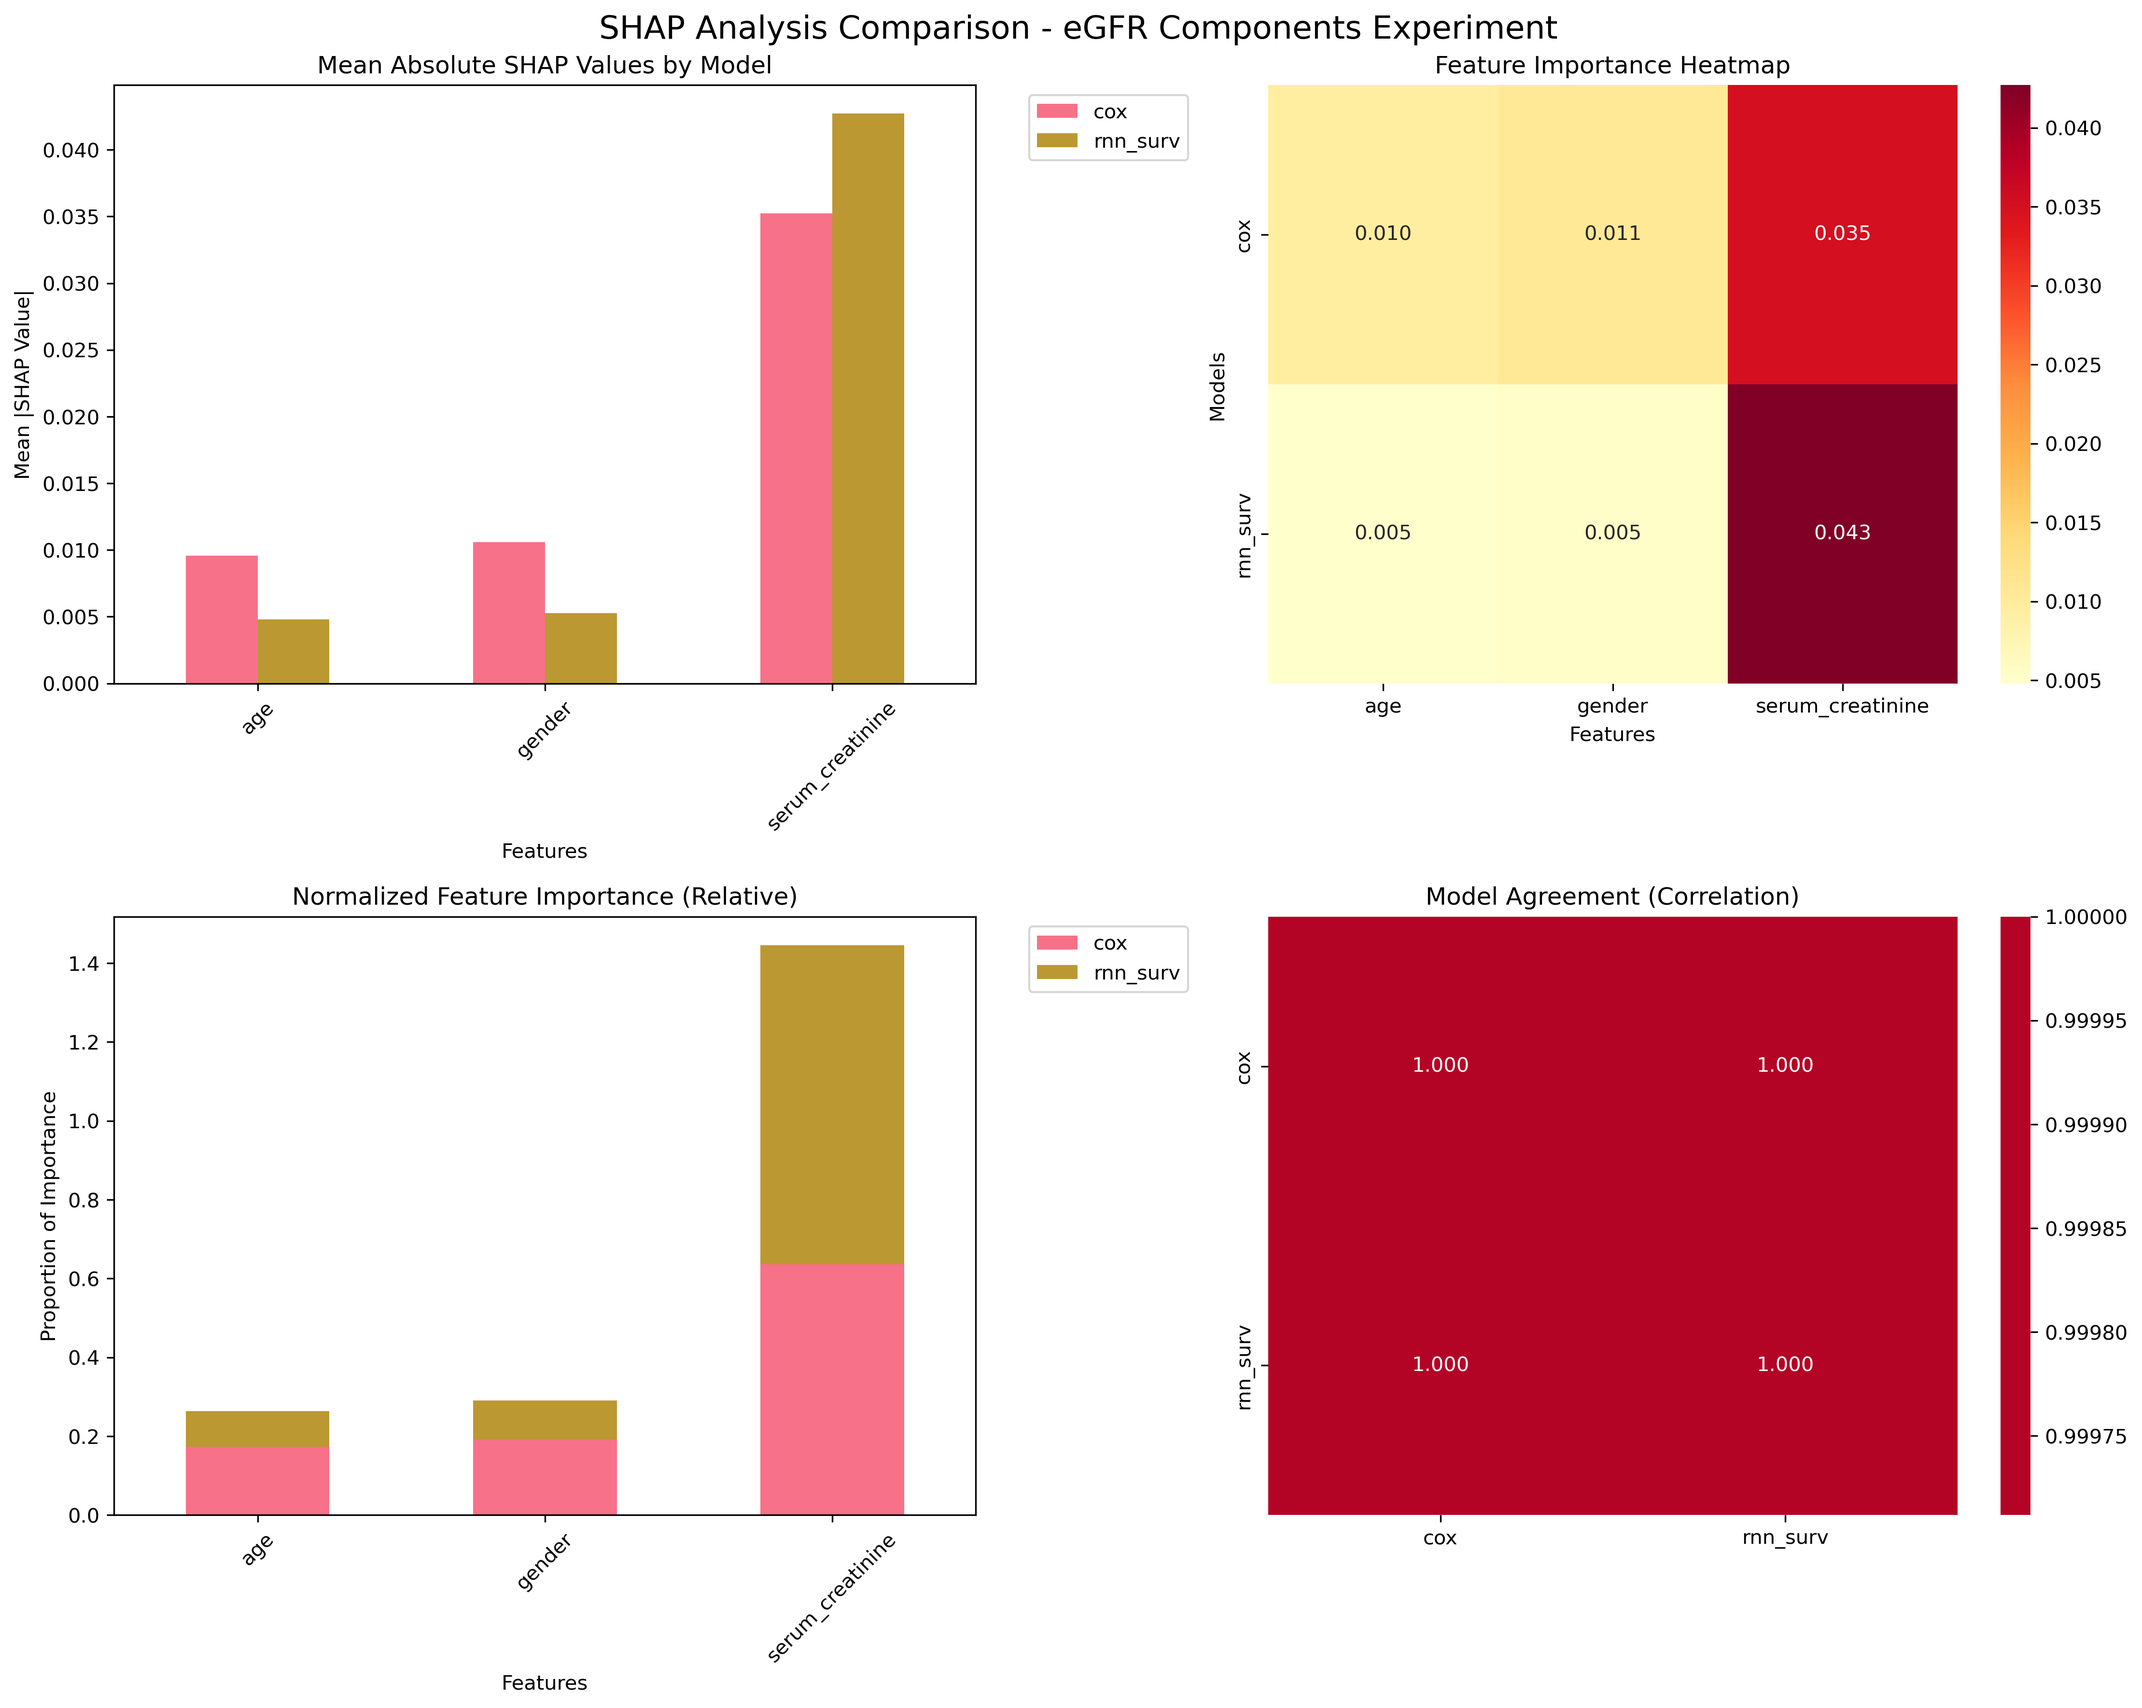
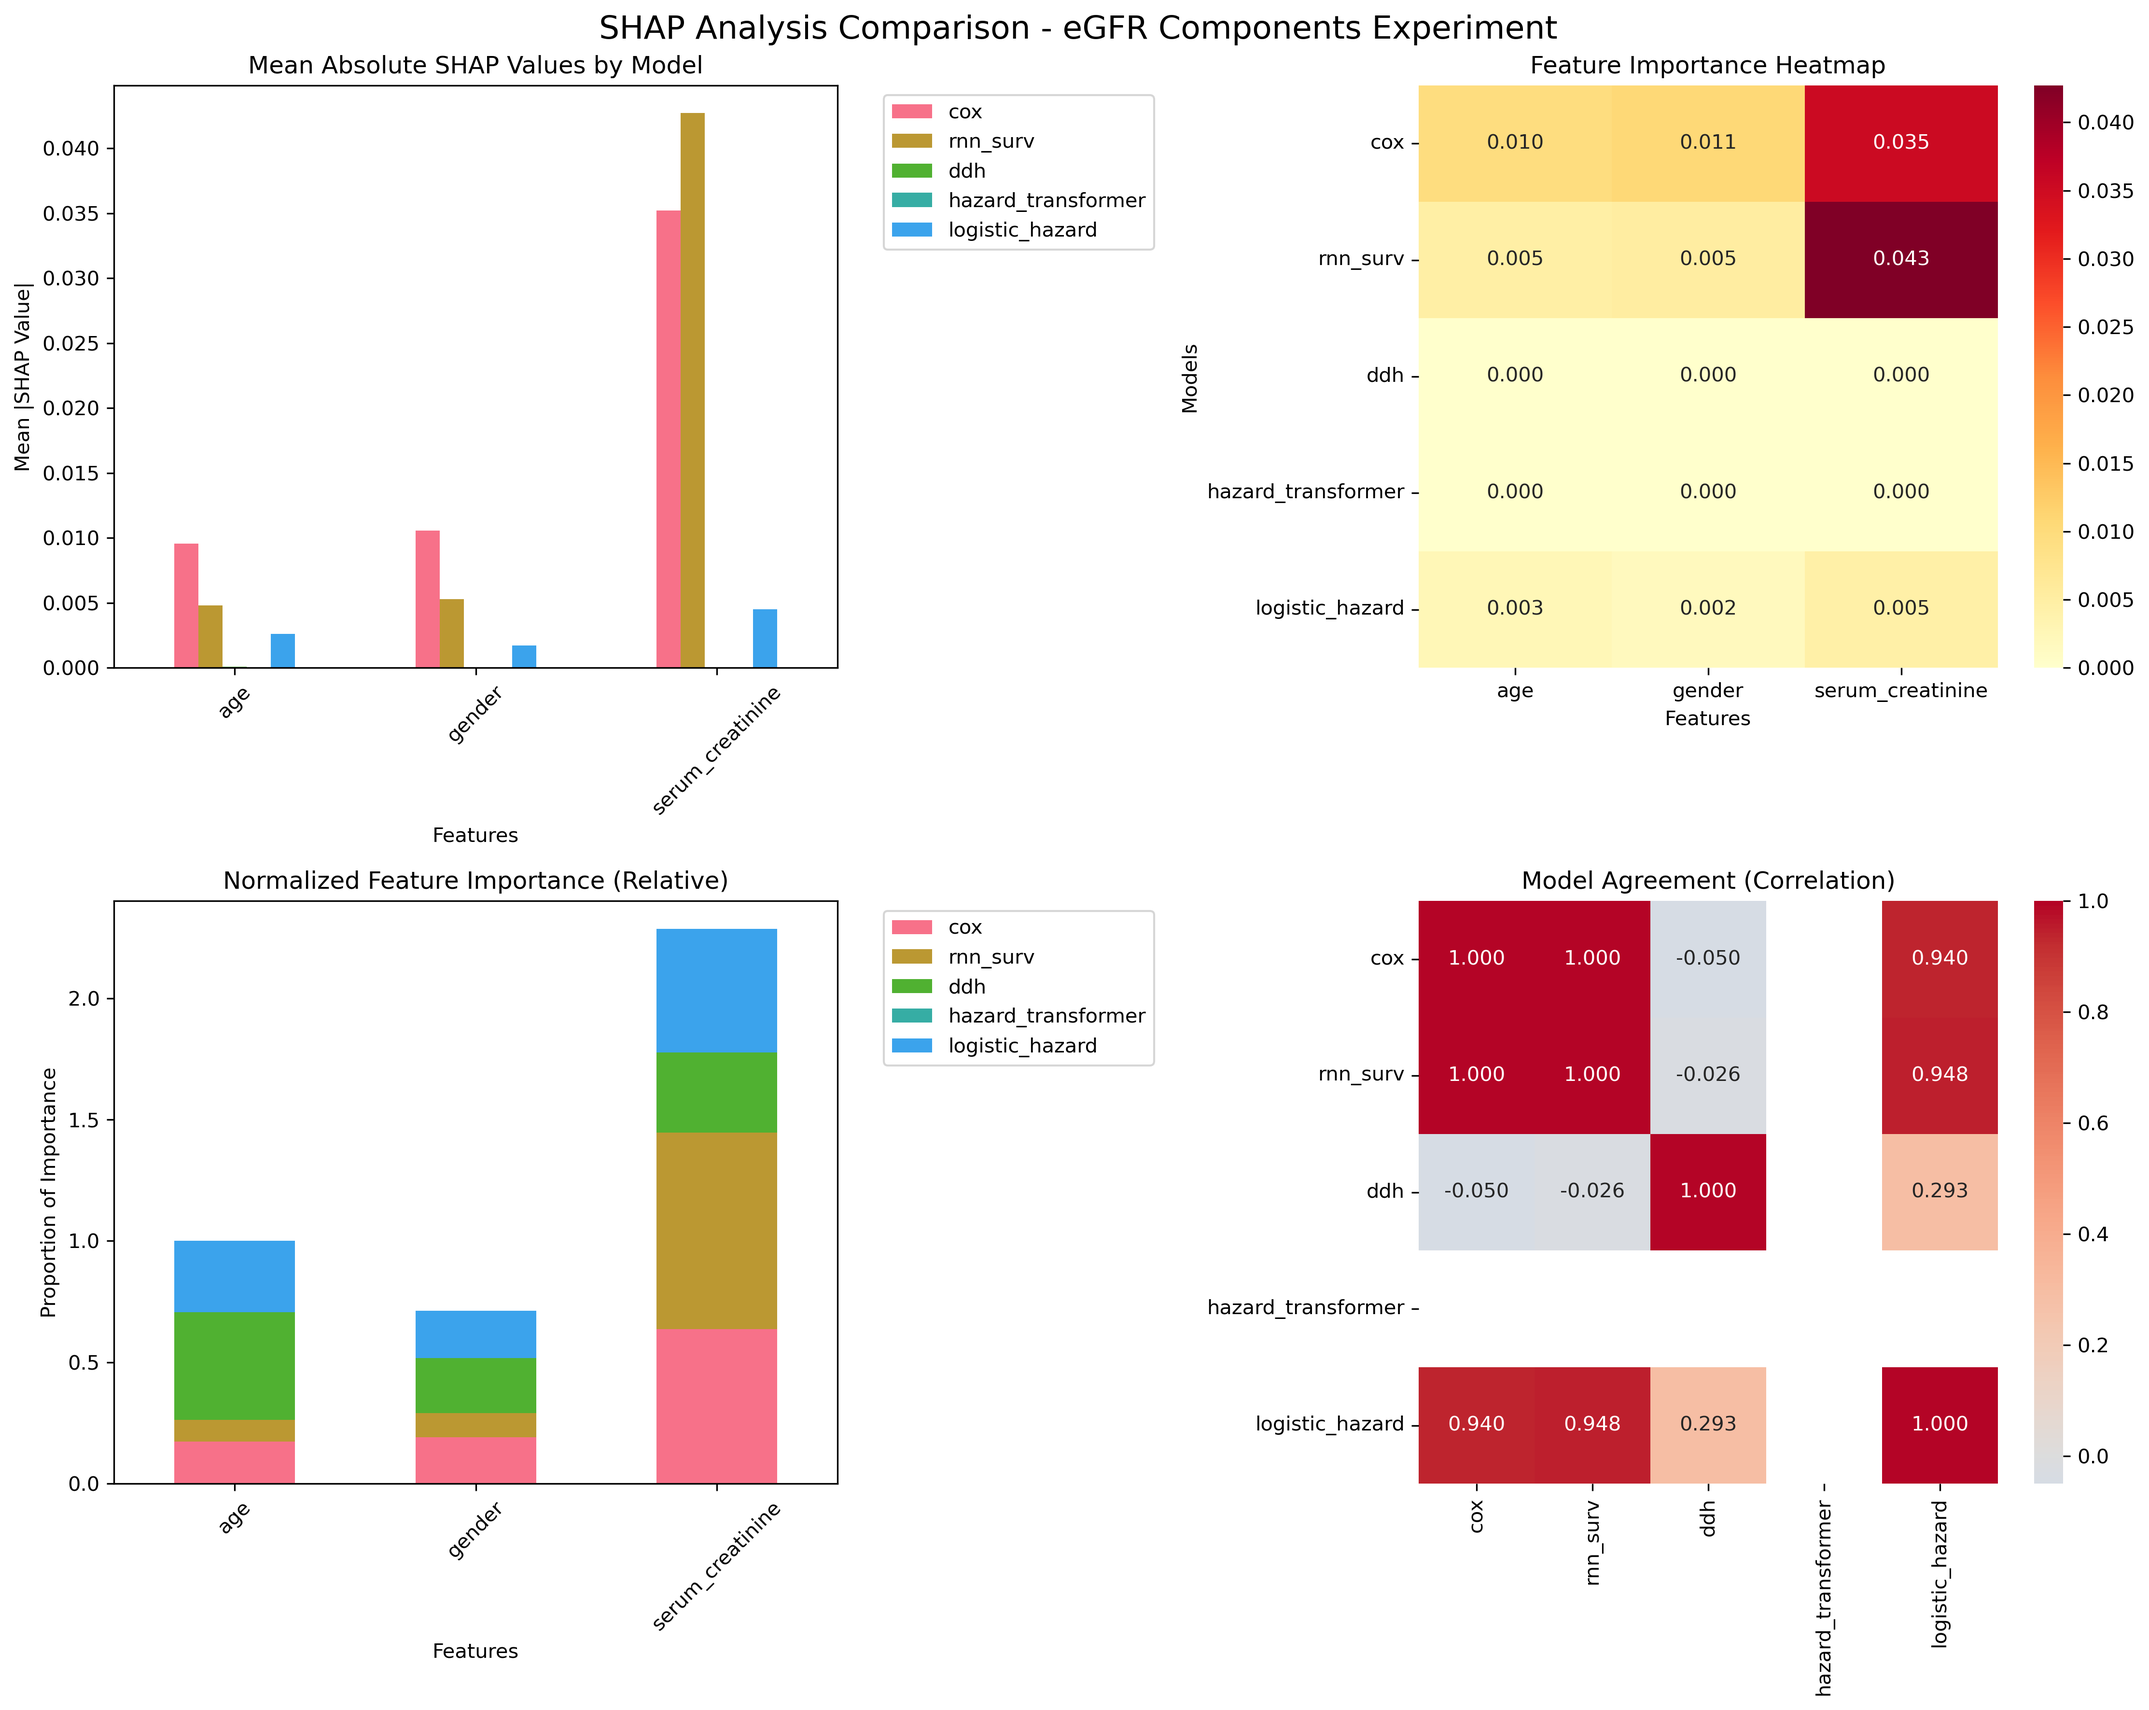
na

diff --git a/pkgs/scripts/egfr_components_shap_analysis.py b/pkgs/scripts/egfr_components_shap_analysis.py
@@ -154,25 +154,74 @@ class EGFRComponentsSHAPAnalysis:
             if model_name in self.models:
                 device = torch.device('cuda' if torch.cuda.is_available() else 'cpu')
                 model = self.models[model_name]
-                X_tensor = torch.tensor(X, dtype=torch.float32).to(device)
                 
                 with torch.no_grad():
                     try:
                         if model_name == 'rnn_surv':
+                            X_tensor = torch.tensor(X, dtype=torch.float32).to(device)
                             X_tensor = X_tensor.unsqueeze(1)  # Add sequence dimension
                             _, risk_scores = model(X_tensor)
                             return 1 - risk_scores.squeeze().cpu().numpy()
+                            
                         elif model_name == 'ddh':
-                            # DDH model requires mask parameter - skip for now
-                            print(f"Skipping {model_name} - requires additional parameters")
-                            return None
+                            # DDH model requires features and mask
+                            batch_size = len(X)
+                            max_seq_length = 1  # For SHAP, we use single time point
+                            
+                            # Normalize features like in the original experiment
+                            features = np.zeros((batch_size, max_seq_length, len(self.features)))
+                            features[:, 0, 0] = (X[:, 0] - self.train_data['age'].mean()) / self.train_data['age'].std()
+                            features[:, 0, 1] = X[:, 1]  # gender, no normalization
+                            features[:, 0, 2] = (X[:, 2] - self.train_data['serum_creatinine'].mean()) / self.train_data['serum_creatinine'].std()
+                            
+                            mask = np.ones((batch_size, max_seq_length))  # All positions are valid
+                            
+                            features_tensor = torch.tensor(features, dtype=torch.float32).to(device)
+                            mask_tensor = torch.tensor(mask, dtype=torch.float32).to(device)
+                            
+                            hazard_preds, _ = model(features_tensor, mask_tensor)
+                            # Take the last time step prediction
+                            risk_scores = hazard_preds[:, -1, 0].cpu().numpy()
+                            return risk_scores
+                            
                         elif model_name == 'hazard_transformer':
-                            # Try direct prediction first
-                            risk_scores = model(X_tensor)
-                            return risk_scores.squeeze().cpu().numpy()
-                        else:
-                            risk_scores = model(X_tensor)
-                            return risk_scores.squeeze().cpu().numpy()
+                            # Similar to DDH but different normalization and output
+                            batch_size = len(X)
+                            max_seq_length = 1
+                            
+                            features = np.zeros((batch_size, max_seq_length, len(self.features)))
+                            features[:, 0, 0] = (X[:, 0] - self.train_data['age'].mean()) / self.train_data['age'].std()
+                            features[:, 0, 1] = X[:, 1]  # gender, no normalization
+                            features[:, 0, 2] = (X[:, 2] - self.train_data['serum_creatinine'].mean()) / self.train_data['serum_creatinine'].std()
+                            
+                            mask = np.ones((batch_size, max_seq_length))
+                            
+                            features_tensor = torch.tensor(features, dtype=torch.float32).to(device)
+                            mask_tensor = torch.tensor(mask, dtype=torch.float32).to(device)
+                            
+                            hazard_preds, _, _ = model(features_tensor, mask_tensor)
+                            risk_scores = hazard_preds[:, -1, 0].cpu().numpy()
+                            return risk_scores
+                            
+                        elif model_name == 'logistic_hazard':
+                            # LogisticHazard uses normalized features directly
+                            features = np.zeros((len(X), len(self.features)))
+                            features[:, 0] = (X[:, 0] - self.train_data['age'].mean()) / self.train_data['age'].std()
+                            features[:, 1] = X[:, 1]  # gender, no normalization
+                            features[:, 2] = (X[:, 2] - self.train_data['serum_creatinine'].mean()) / self.train_data['serum_creatinine'].std()
+                            
+                            X_tensor = torch.tensor(features, dtype=torch.float32).to(device)
+                            
+                            # The saved model is actually just the neural network
+                            # Get the raw outputs and convert to risk scores
+                            outputs = model(X_tensor)
+                            
+                            # Convert logits to probabilities and then to risk scores
+                            # For survival models, we typically use 1 - survival probability
+                            risk_scores = torch.sigmoid(outputs).mean(dim=1).cpu().numpy()
+                            
+                            return risk_scores
+                            
                     except Exception as e:
                         print(f"Error with {model_name}: {e}")
                         return None
@@ -254,7 +303,17 @@ class EGFRComponentsSHAPAnalysis:
             return None
             
         # Create SHAP explainer
-        explainer = shap.Explainer(surrogate, X_train)
+        try:
+            explainer = shap.Explainer(surrogate, X_train)
+        except Exception as e:
+            if "singular" in str(e).lower():
+                print(f"Handling singular covariance matrix for {model_name}")
+                # Add small random noise to avoid singular matrix
+                X_train_noisy = X_train + np.random.normal(0, 1e-8, X_train.shape)
+                explainer = shap.Explainer(surrogate, X_train_noisy)
+            else:
+                print(f"Failed to create explainer for {model_name}: {e}")
+                return None
         
         # Calculate SHAP values for a sample of test data
         sample_size = min(1000, len(X_test))
